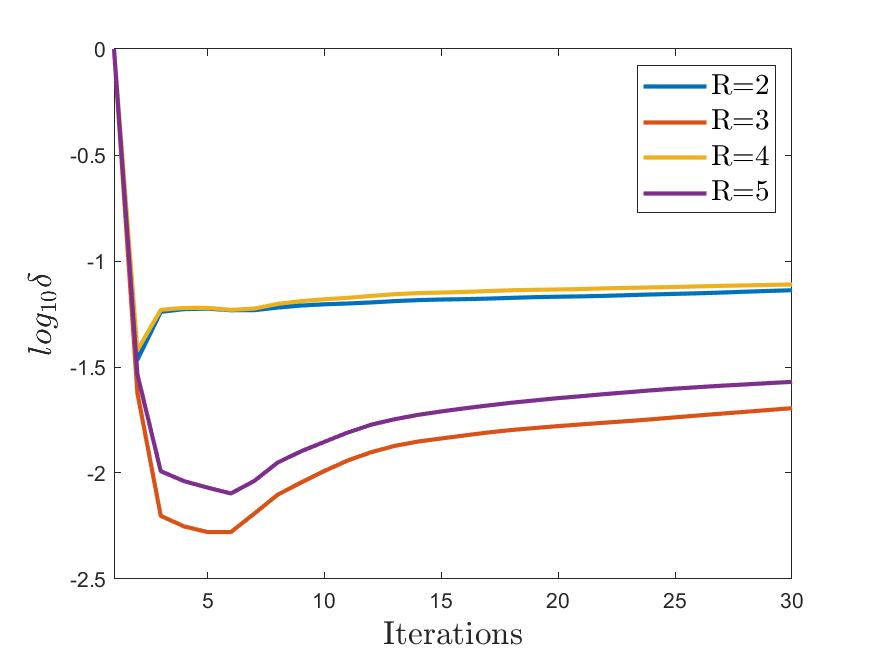
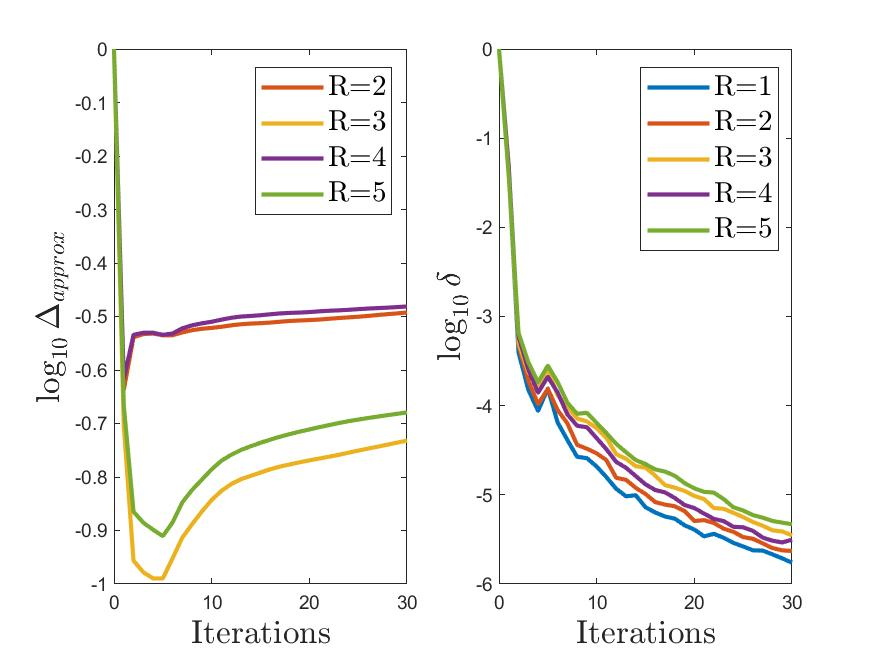
Fix creation of Figure 4

diff --git a/iterativeRecon.m b/iterativeRecon.m
@@ -126,10 +126,10 @@ if saveIterSteps
 end
 
 if calculateDelta
-    deltas = zeros(nIterations+1,1);
-    % reference.image = reference.image/max(max(abs(reference.image)));
-    reference.image = reference.image;
+    Deltas = zeros(nIterations+1,1);
 end
+
+deltas = zeros(nIterations+1,1);
 
 % Perform CG-SENSE algorithm
 for nCoil=1:nCoils
@@ -142,8 +142,7 @@ for nCoil=1:nCoils
     a = EH( signal(:,coilsSelect).*D(:,coilsSelect)*noiseCov, sens_os(:,:,coilsSelect), griddingOp)./I;
     
     if calculateDelta
-        % deltas(1) = norm(reshape( reference.mask.* ((a(center,center)/max(max(abs(a(center,center))))) - reference.image ),1,[]))./ norm(reshape(reference.mask.*reference.image, 1, []));
-        deltas(1) = norm(reshape( reference.mask.* ((a(center,center)) - reference.image ),1,[]))./ norm(reshape(reference.mask.*reference.image, 1, []));
+        Deltas(1) = norm(reshape( reference.mask.* ((a(center,center)) - reference.image ),1,[]))./ norm(reshape(reference.mask.*reference.image, 1, []));
     end
     
     recon_image = mask.*a./I;
@@ -154,7 +153,7 @@ for nCoil=1:nCoils
         imagesIterSteps{1} = a(center,center);
     end
     for counter = 1:nIterations
-        % delta = r(:)'*r(:)/(a(:)'*a(:));
+        deltas(counter) = r(:)'*r(:)/(a(:)'*a(:));
         q = EH( E(p./I , sens_os(:,:,coilsSelect), griddingOp).*D(:,coilsSelect)*noiseCov, sens_os(:,:,coilsSelect), griddingOp)./I;
         b = b + r(:)'*r(:)/(p(:)'*q(:))*p;
         r_new = r - r(:)'*r(:)/(p(:)'*q(:))*q;
@@ -171,8 +170,7 @@ for nCoil=1:nCoils
             imagesIterSteps{counter+1} = recon_image(center,center);
         end
         if calculateDelta
-            % deltas(counter+1) = norm(reshape( reference.mask.* ((recon_image(center,center)/max(max(abs(recon_image(center,center))))) - reference.image ),1,[]))./ norm(reshape(reference.mask.*reference.image, 1, []));
-            deltas(counter+1) = norm(reshape( reference.mask.* ((recon_image(center,center)) - reference.image ),1,[]))./ norm(reshape(reference.mask.*reference.image, 1, []));
+            Deltas(counter+1) = norm(reshape( reference.mask.* ((recon_image(center,center)) - reference.image ),1,[]))./ norm(reshape(reference.mask.*reference.image, 1, []));
         end
     end
     if getSCdata
@@ -181,6 +179,7 @@ for nCoil=1:nCoils
         break;
     end
 end
+deltas(nIterations+1) = r(:)'*r(:)/(a(:)'*a(:));
 
 %% Output
 if getSCdata
@@ -199,11 +198,12 @@ out.imageComb_full = imageComb;
 out.sens_os = sens_os;
 out.kspFilter = kspFilter;
 out.center = center;
+out.deltas = deltas;
 if saveIterSteps
     out.imagesIterSteps = imagesIterSteps;
 end
 if calculateDelta
-    out.deltas = deltas;
+    out.Deltas = Deltas;
 end
 
 end

diff --git a/createFigure4.m b/createFigure4.m
@@ -1,4 +1,4 @@
-function deltas = createFigure4(data, paths)
+function [Deltas, deltas]= createFigure4(data, paths)
 
 % This function creates Figure 4 of the original paper (log(delta) over
 % number of iterations). It first sets properties that are held constant for
@@ -37,6 +37,7 @@ reference.mask = mask_tmp;
 R = [1, 2, 3, 4, 5];
 properties.nIterations = 30;
 deltas = zeros(properties.nIterations+1, length(R));
+Deltas = zeros(properties.nIterations+1, length(R));
 for ic1=1:length(R)
     disp(['Reconstruct image with R = ' num2str(R(ic1)) '. (' num2str(ic1) '/' num2str(length(R)) ')']);
     properties.R = R(ic1);
@@ -47,22 +48,34 @@ for ic1=1:length(R)
     
     out_tmp = iterativeRecon(data, properties, reference);
     deltas(:,ic1) = out_tmp.deltas;
+    Deltas(:,ic1) = out_tmp.Deltas;
 end
+
+nIterations = size(Deltas,1)-1;
 
 % Plot the results and save the figure in results subfolder
 % We decided to not plot the error for R=1
 fig4 = figure;
-hold on
-% plot(log(deltas(:,1)), 'LineWidth', 2)
-plot(log(deltas(:,2)), 'LineWidth', 2)
-plot(log(deltas(:,3)), 'LineWidth', 2)
-plot(log(deltas(:,4)), 'LineWidth', 2)
-plot(log(deltas(:,5)), 'LineWidth', 2)
-xlim([1 length(deltas)-1])
-ylabel('$log_{10} \delta$', 'Interpreter', 'latex', 'FontSize', 16)
+subplot(1,2,1);
+l1 = plot(0:nIterations,log10(Deltas(:,2:5)), 'LineWidth', 2);
+xlim([0 nIterations])
+ylabel('$\log_{10} \Delta_{approx}$', 'Interpreter', 'latex', 'FontSize', 16)
 xlabel('Iterations', 'Interpreter', 'latex', 'FontSize', 16)
 legend({'R=2', 'R=3', 'R=4', 'R=5'}, 'Location', 'NorthEast', 'Interpreter', 'latex', 'FontSize', 14)
 box on
+
+subplot(1,2,2);
+l2 = plot(0:nIterations,log10(deltas(:,1:5)), 'LineWidth', 2);
+xlim([0 nIterations])
+ylabel('$\log_{10} \delta$', 'Interpreter', 'latex', 'FontSize', 16)
+xlabel('Iterations', 'Interpreter', 'latex', 'FontSize', 16)
+legend({'R=1', 'R=2', 'R=3', 'R=4', 'R=5'}, 'Location', 'NorthEast', 'Interpreter', 'latex', 'FontSize', 14)
+box on
+
+% Make sure that same R-factors have same line color in both plots
+colors = get(l2,{'Color'});
+set(l1,{'Color'},colors(2:5));
+
 print(fig4,[paths.results '/Figure4_' data.dataset '_logDeltaOverIterations'],'-djpeg')
 
 end

diff --git a/main.m b/main.m
@@ -30,7 +30,7 @@ properties.dokspaceApodization = 0; % Add additional k-space apodization? (used 
 data.sense = getSenseMap(paths, properties, doLoadSenseMap, data);
 
 %% Create Figure 4 (brain data)
-deltas = createFigure4(data, paths);
+[Deltas,deltas] = createFigure4(data, paths);
 
 %% Create Figure 5 (brain data)
 createFigure5(data, paths);

diff --git a/README.md b/README.md
@@ -71,8 +71,8 @@ In order to address the goals of the submission, we provide the following result
 	> Magnetic Resonance in Medicine, vol. 43, no. 5, pp. 682–690, May 2000.
 	- Only the central, fully sampled part of the provided radial data (about 60 samples of each spoke for the brain data) were utilized for this computation. For the heart dataset all samples were used to calculate the SENSE maps.
 2. The figure reproducing reconstruction errors of R=2,3,4,5 undersampled brain data is provided in `results/Figure4_brain_logDeltaOverIterations.jpg`
-    - Note that we only provide a plot for the lower-case delta here (Eq. (28) of [1]), because upper-case delta, i.e., the relative deviation from the exact
-	solution cannot be computed in the absence of a ground truth for the imaged object. 
+    - Note that the upper-case delta, i.e., the relative deviation from the exact solution, cannot be computed in the absence of a ground truth for the imaged object. Therefore, we 
+	reconstructed an image with R=1 and picked it as the ground truth for calculating the reconstruction error for R>2. 
 3. Reconstruction results for R=1,2,3,4 undersampled brain data are stored in two jpg files for better readability, `results/Figure5_brain_undersamplingRecon_part{1,2}.jpg`
 4. Reconstructions of the provided cardiac data using the first 11,22,33,44,55 spokes (R=5,4,3,2,1 respectively) are provided in `results/Figure6_heart_undersamplingRecon.jpg`.
 
